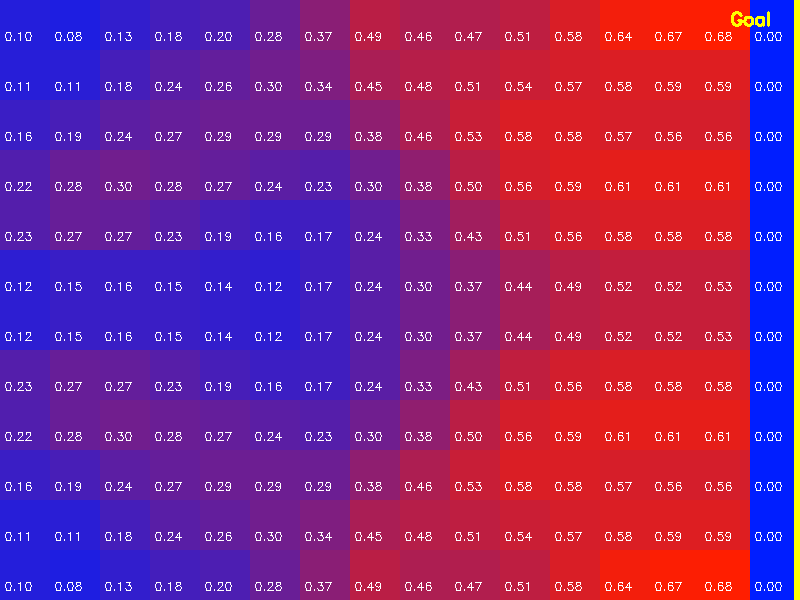
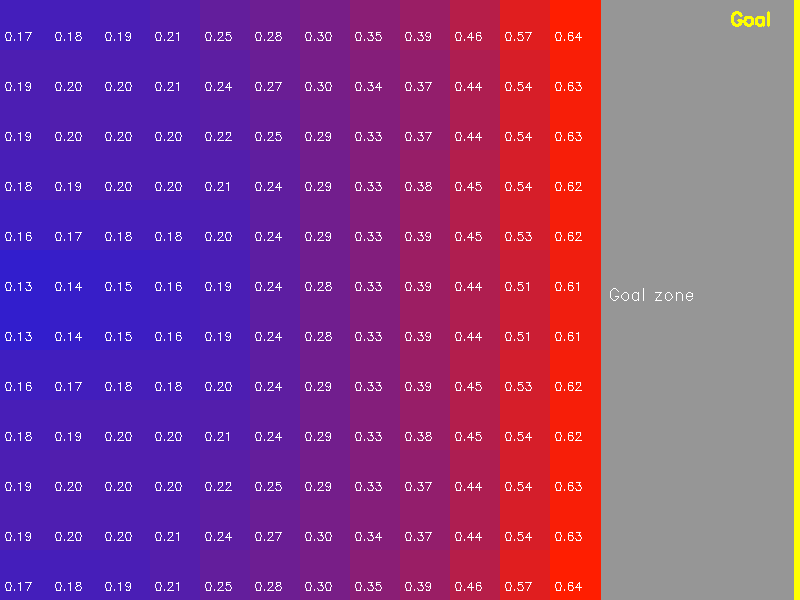
fix: xT 히트맵에서 골대 영역을 회색으로 표시
골대 영역(12~15열)은 도착 목표로만 쓰여 출발 표본이 0인데, 스무딩이
11열 값을 12~14열로 번지게 해 0.6대 가짜 값이 찍히고 15열만 0.00으로
보였다. 골대 영역은 회색 + 숫자 없음, 색 범위는 0~11열 기준으로.

README 이미지를 match25 단일 경기에서 29경기 합산(V_user, 방향 수정
반영)으로 교체하고 설명에 계산 방식과 골대 영역을 명시.

diff --git a/src/xt_model.py b/src/xt_model.py
@@ -107,14 +107,26 @@ def compute_xt(window_seconds: int = 10, sample_every: int = 3,
     return V, starts, reached, (grid_w, grid_h)
 
 
-def visualize_heatmap(V, save_path: str, scale: int = 50, show: bool = True):
-    """히트맵: 가로 i (0=우리골대, max=상대골대), 세로 j."""
+def visualize_heatmap(V, save_path: str, scale: int = 50, show: bool = True,
+                      goal_zone_i: int = 12):
+    """히트맵: 가로 i (0=우리골대, max=상대골대), 세로 j.
+
+    i >= goal_zone_i 는 '골대 영역'(도착 목표, 출발 표본 0)이라 값이 없다.
+    스무딩이 11열 값을 12~14열로 번지게 해 0.6대 가짜 값이 찍히고 15열만
+    0.00 으로 남던 문제 → 회색으로 칠하고 숫자를 표시하지 않는다.
+    """
     grid_w, grid_h = V.shape
     img = np.zeros((grid_h * scale, grid_w * scale, 3), dtype=np.uint8)
 
-    vmax = V.max() if V.max() > 0 else 1
+    play = V[:goal_zone_i]
+    vmax = play.max() if play.max() > 0 else 1
 
-    for i in range(grid_w):
+    gx0 = goal_zone_i * scale
+    img[:, gx0:] = (150, 150, 150)
+    cv2.putText(img, "Goal zone", (gx0 + 8, grid_h * scale // 2),
+                cv2.FONT_HERSHEY_SIMPLEX, 0.55, (255, 255, 255), 1)
+
+    for i in range(min(goal_zone_i, grid_w)):
         for j in range(grid_h):
             v_norm = V[i, j] / vmax  # 0~1
             r = int(v_norm * 255)

diff --git a/README.md b/README.md
@@ -12,7 +12,7 @@
 
 ![개인 대시보드](docs/dashboard.png)
 
-**xT(expected threat) 가치맵** — 미니맵을 16×12 격자로 나눠 각 위치의 득점 기대값을 계산 (오른쪽 골대에 가까울수록 高).
+**xT(expected threat) 가치맵** — 미니맵을 16×12 격자로 나눠, 각 칸에서 공을 잡았을 때 10초 안에 상대 골대 영역(오른쪽 4열, 회색)에 도달한 비율을 계산. 29경기 합산, 오른쪽 골대에 가까울수록 高.
 
 ![xT 가치맵](docs/xt_heatmap.png)
 
